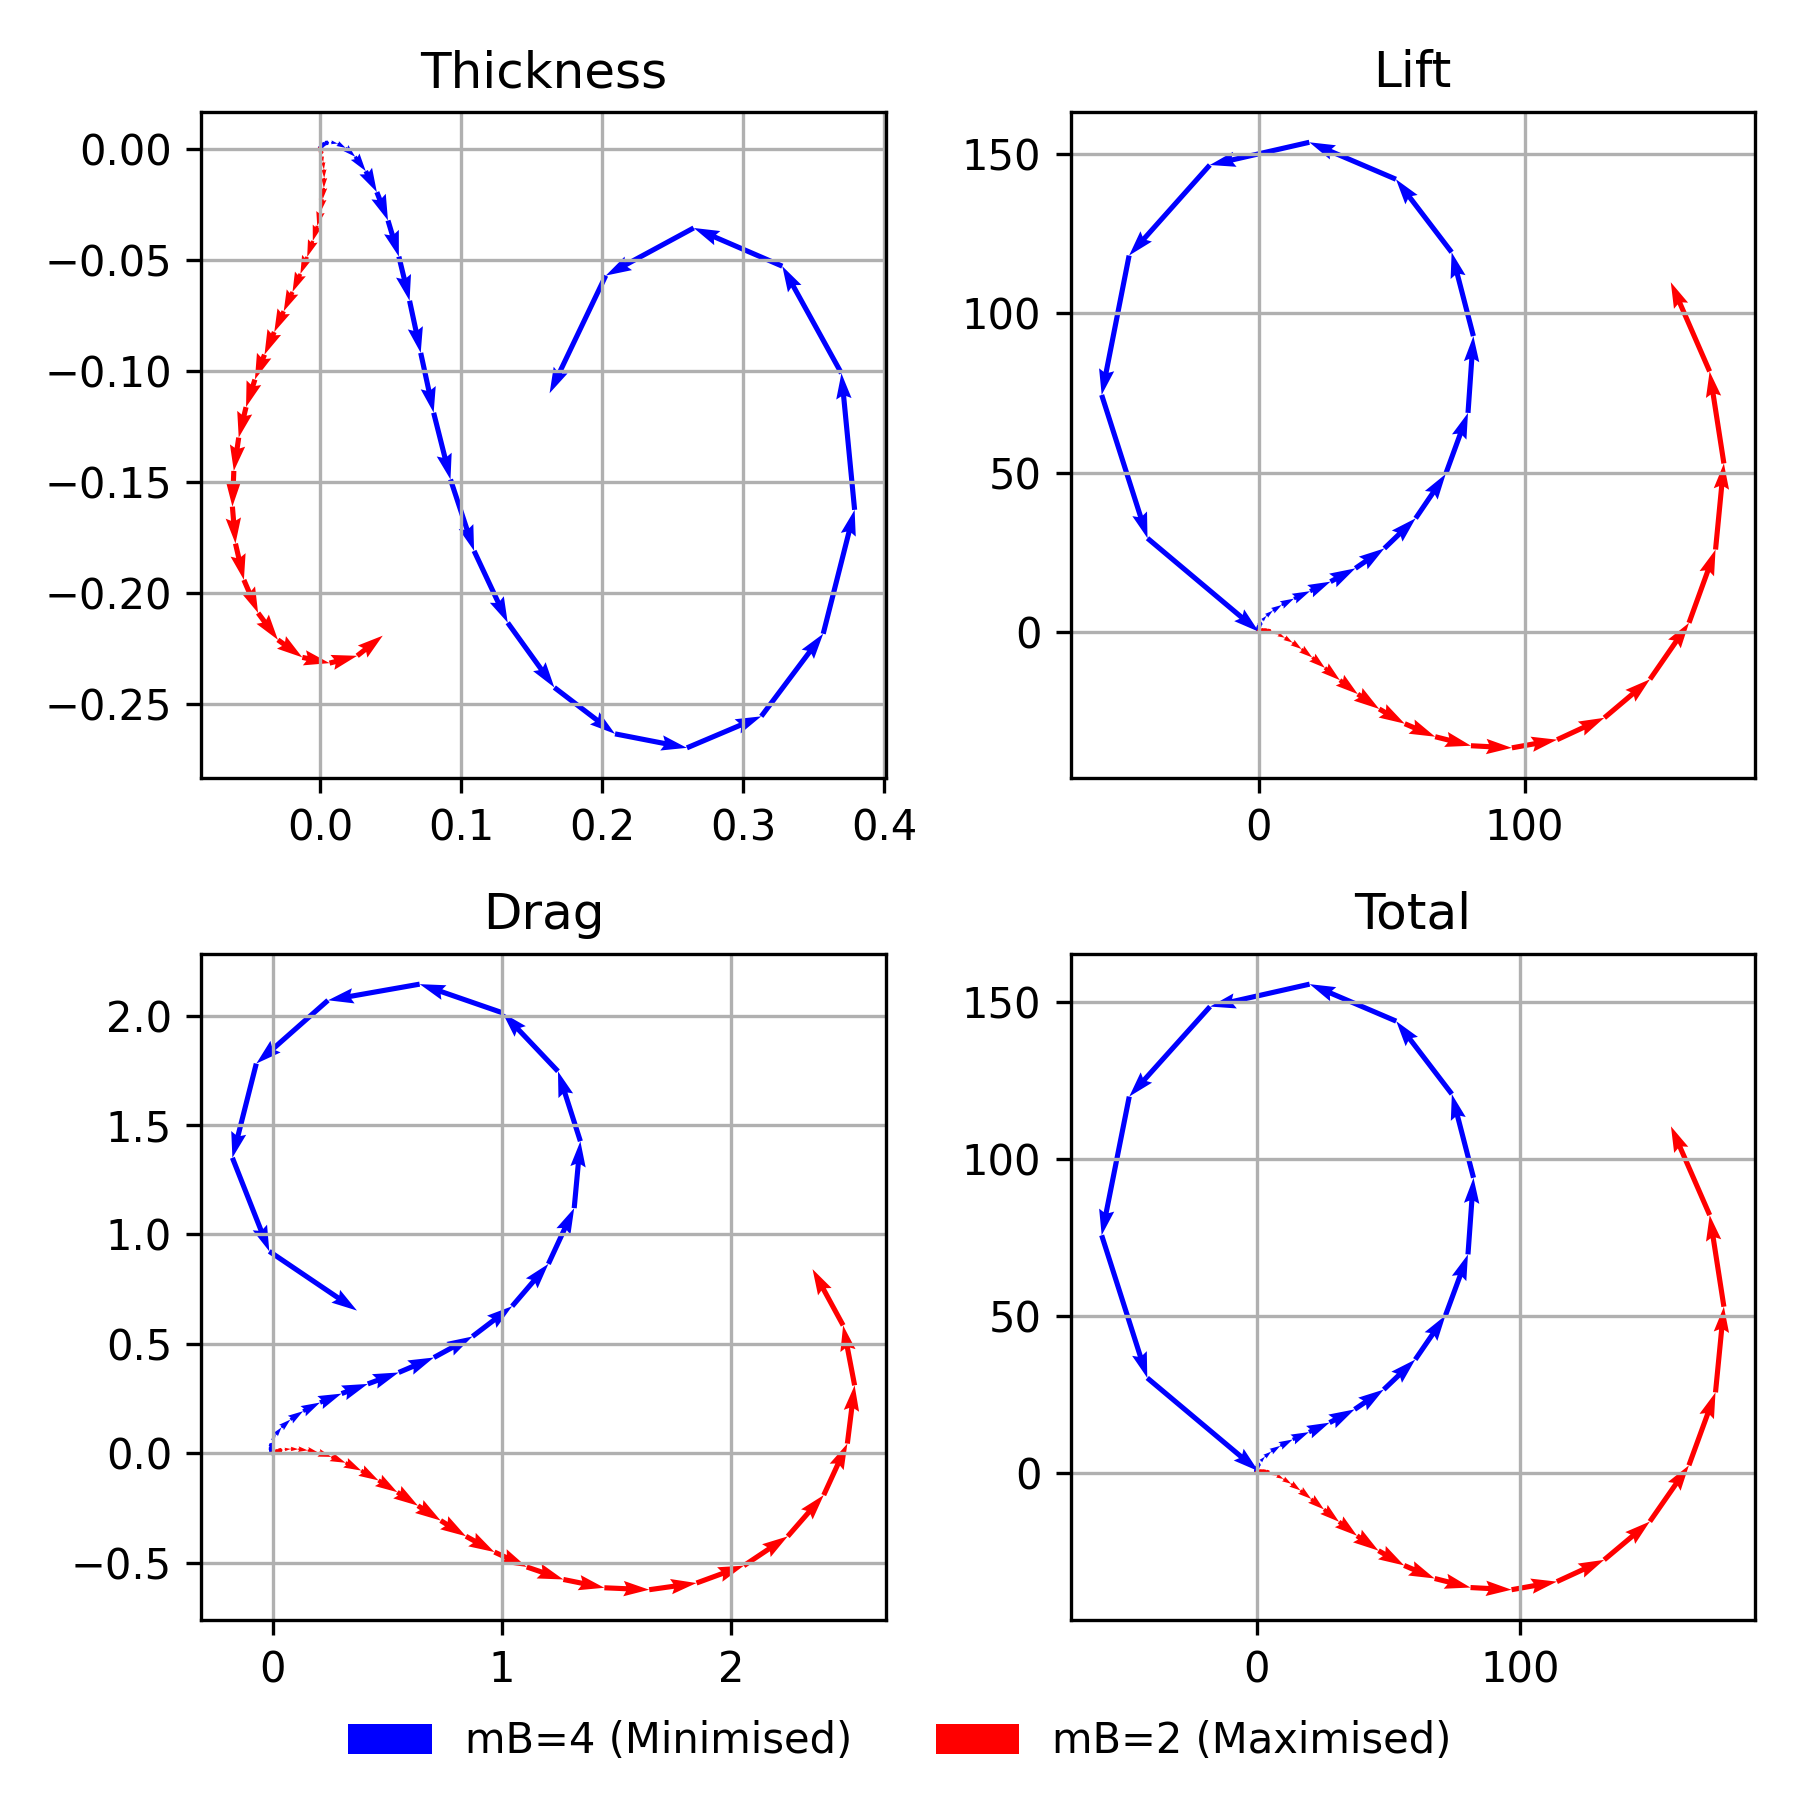
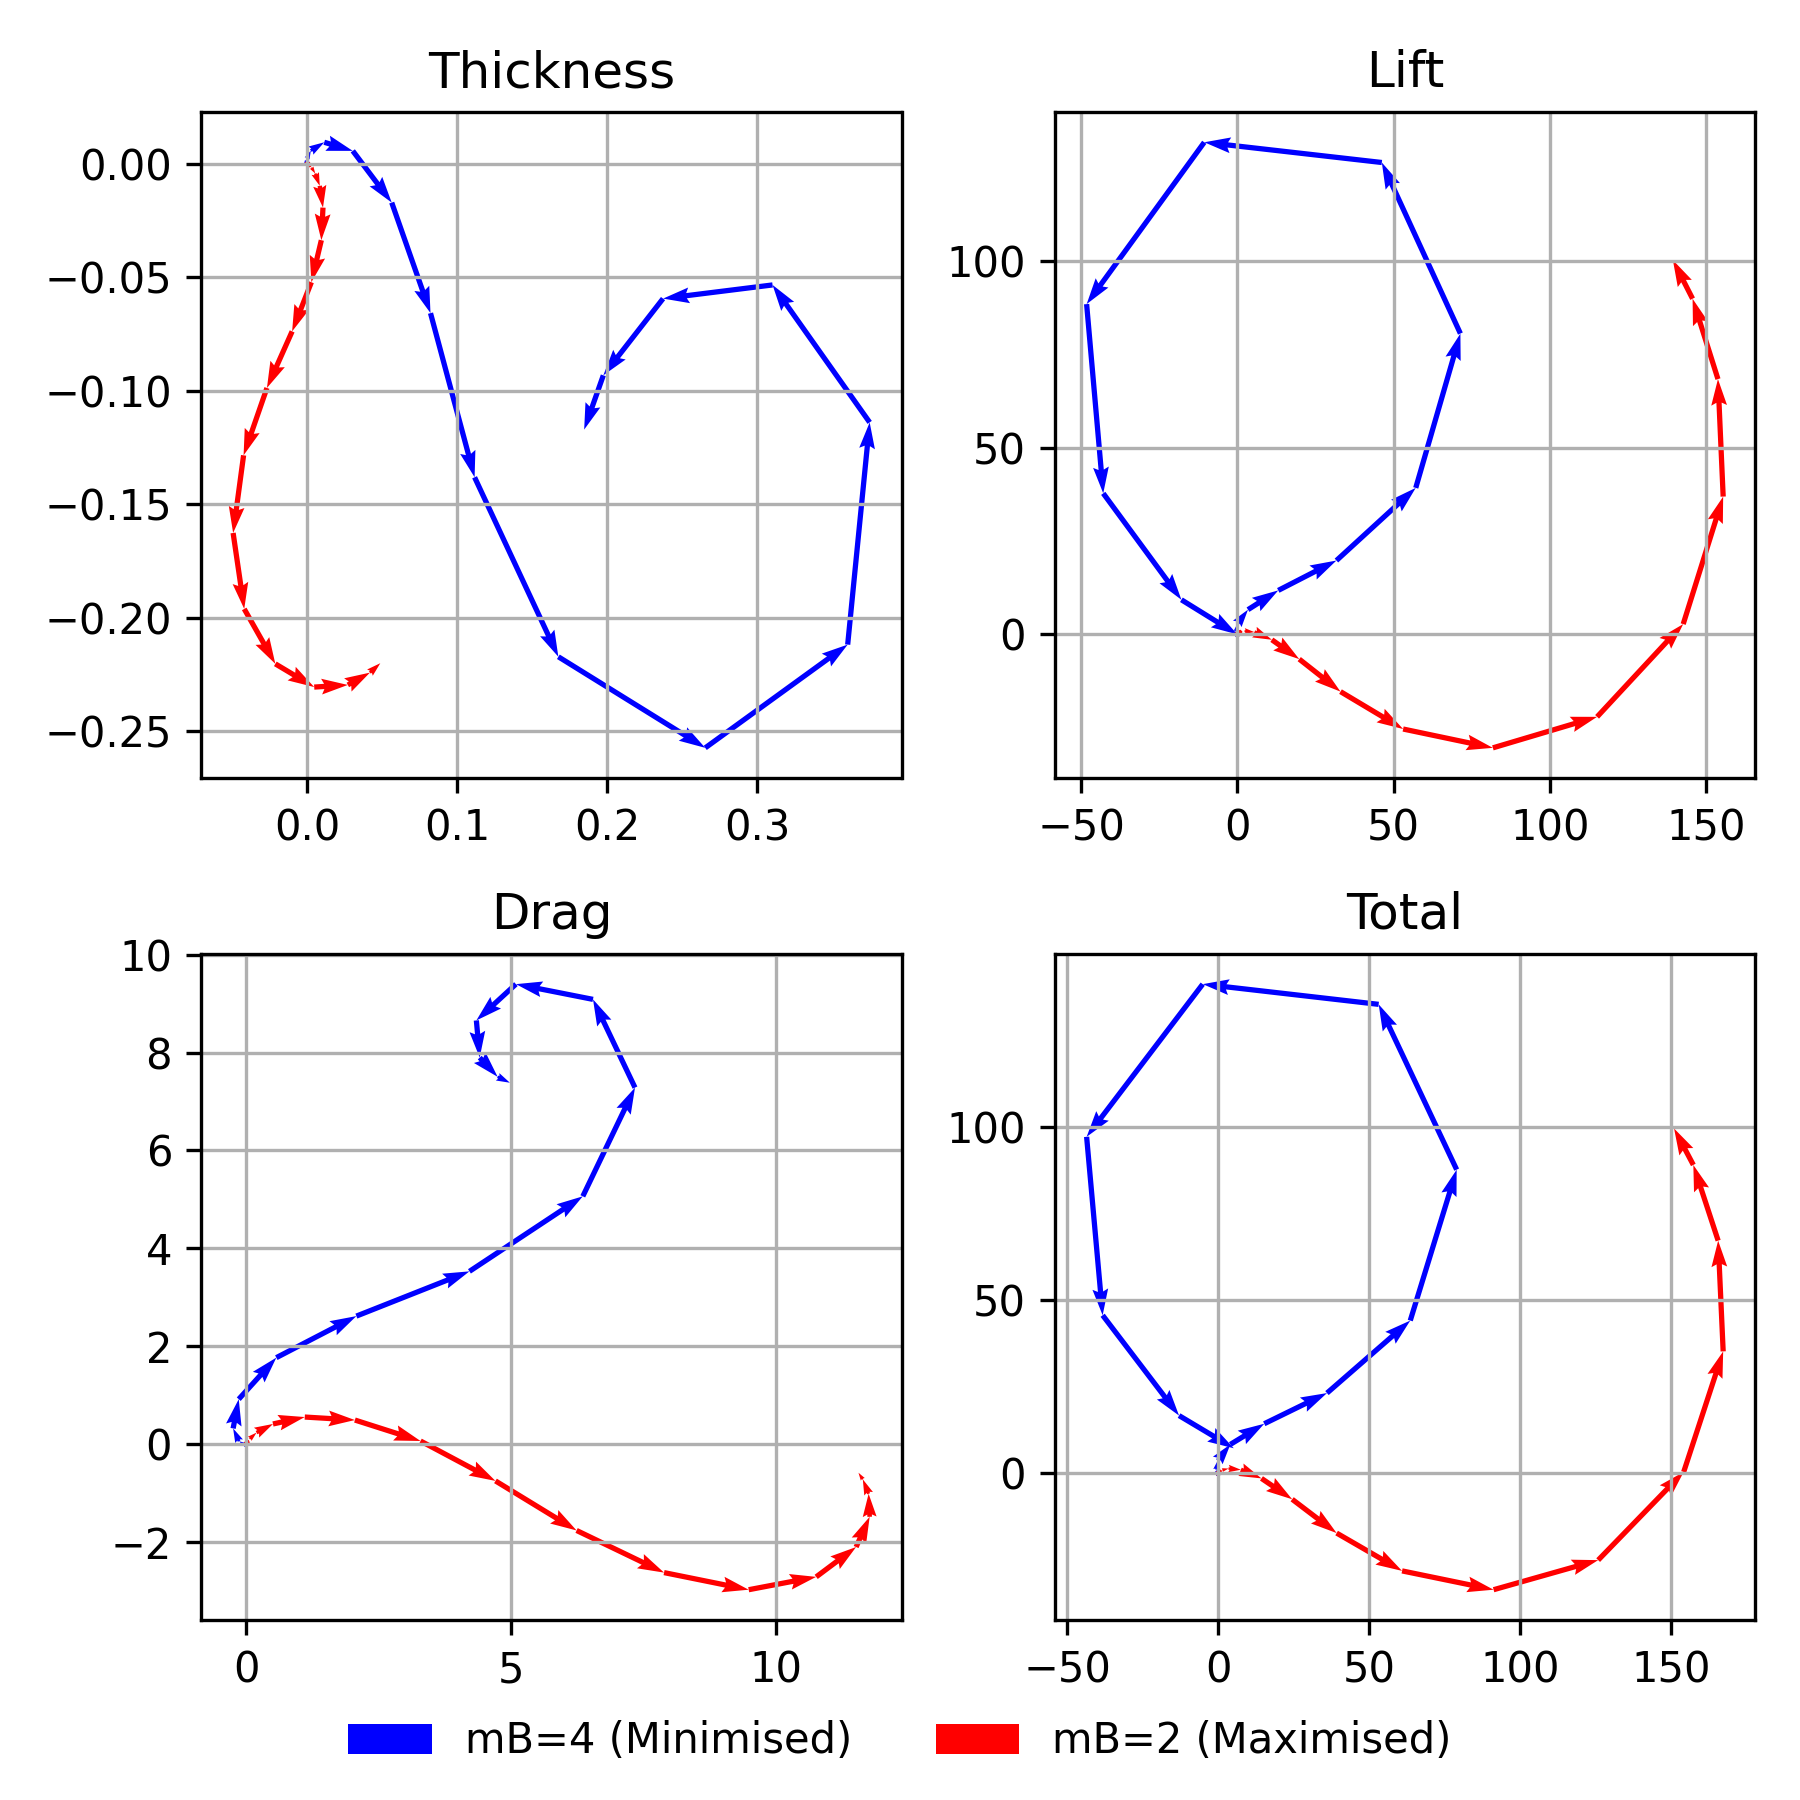
tomorrow will work on 4A4 and a tikz flowchart

diff --git a/deliverables/tms/tms.tex b/deliverables/tms/tms.tex
@@ -57,7 +57,10 @@
 
 \lstset{style=mystyle}
 
-
+\tikzstyle{startstop} = [rectangle, rounded corners, minimum width=3cm, minimum height=1cm,text centered, draw=black, fill=red!30]
+\tikzstyle{process} = [rectangle, minimum width=3cm, minimum height=1cm, text centered, draw=black, fill=orange!30]
+\tikzstyle{decision} = [diamond, minimum width=3cm, minimum height=1cm, text centered, draw=black, fill=green!30]
+\tikzstyle{io} = [trapezium, trapezium left angle=70, trapezium right angle=110, minimum width=3cm, minimum height=1cm, text centered, draw=black, fill=blue!30]
 
 \begin{document}
 \immediate\write18{py mergebib.py}
@@ -118,8 +121,7 @@ Blade Element Momentum theory is a common method to predict the aerodynamic perf
 In BEM, the blade is divided into annular sections and the induced velocity at each section is assumed to be due to only the forces on that section.
 Then actuator disk theory is combined with momentum theory to create a system of non-linear equations which can be solved iteratively.
 
-
-\begin{figure}
+\begin{figure}[H]
     \centering
     \begin{tikzpicture}
             % Some profiles look better when using plot[smooth]
@@ -128,7 +130,7 @@ Then actuator disk theory is combined with momentum theory to create a system of
                 plot file{../../app/foils/NACA2412.surf} -- cycle;
         \end{scope}
         % hoirzontal line
-        \draw[thick, dashed] (-4,0) -- (4, 0) node[above] {Rotation Plane};
+        \draw[thick, dashed] (-4,0) -- (4, 0) node[below] {Rotation Plane};
         % velocity vector labelled at midline
         \draw[->] (0,-1) -- (0,0) node[midway,right] {$V(1-a)$};
         \draw[->] (-2,-1) -- (0,-1) node[midway,below] {$\Omega r(1+a')$};
@@ -139,14 +141,13 @@ Then actuator disk theory is combined with momentum theory to create a system of
         \draw[->] (-2,0) arc (0:15:-2) node[midway, left] {$\theta$};
         \draw[->] (-3,0) arc (0:26.565:-3) node[midway, left] {$\phi$};
         \draw[->] (-1.7888,-0.8944) arc (26.565:15:-2) node[midway, left] {$\alpha$};
+        % force coefficients
+        \draw[->] (0.75, 0.194) -- (0.75,2) node[midway, right] {$c_n$};
+        \draw[->] (0.75, 0.194) -- (3, 0.194) node[above] {$c_t$};
     \end{tikzpicture}
     \caption{Local section of propeller blade for BEM. Anticlockwise angles are positive.}
     \label{fig:bem_section}
 \end{figure}
-
-
-S. Andrew Ning developed a fast method with guaranteed convergence \cite{Ning_BEM}.
-
 
 BEM is implemented with Prantl's tip correction factor.
 This is based on a prescribed wake model
@@ -162,6 +163,7 @@ Theory developed by Hanson predicts the far field harmonic noise from propellers
 \end{equation}
 
 The noise harmonic is decomposed into thickness and loading as per the Lighthill analogy.
+
 \begin{equation}
     P_{mB} = P_{Vm} + P_{Dm} + P_{Lm}
 \end{equation}
@@ -180,21 +182,40 @@ The noise harmonic is decomposed into thickness and loading as per the Lighthill
         \end{bmatrix}dz
     \end{aligned}
 \end{equation}
-
-With 
+Where $\Psi$ is the chordwise spatial fourier transform of the respective sectional thickness, drag and lift distributions.
+The distributions are normalised such that $\Psi(0) = 1$.
+\begin{equation}
+    \Psi_V(k_x) = \int_{-1/2}^{1/2} H(X) \exp(jk_x X) dX
+\end{equation}
+With wavenumbers and sectional phase lags given by
 \begin{equation}
     k_x = \frac{mB b}{r_0}, \quad
     k_y = \frac{mB\Omega b}{z c_0} \cos \theta, \quad
     \phi_0 = k_y \frac{FA}{b}, \quad
     \phi_s = k_x \frac{MCA}{b}, \quad
 \end{equation}
-Where $\Psi$ is a normalised chordwise integral of sectional thickness, drag and lift distributions that satisfies $\Psi(0) = 1$.
-\begin{equation}
-    \Psi_V(k_x) = \int_{-1/2}^{1/2} H(X) \exp(jk_x X) dX
-\end{equation}
 
-Hansons
 
+The spanwise integral is performed over a number of discrete airfoil sections.
+
+Directivity
+
+$\Psi(k_x)$ accounts for \textit{non-compactness} of distributed sources in the chordwise direction.
+The far field noise from non-compact sources is a result of interference and phase lag. 
+This explains its dependence on wavenumber and normalised source strengths.
+
+Hanson also showed that strong peaks in the chordwise lift distribution should be avoided
+as these lead to compact, high amplitude noise sources that are difficult to cancel out.
+A near uniform loading is shown to have destructive interference at some wavenumbers \cite{hanson_influence}.
+However, strong suction peaks are a standard feature of high lift to drag ratio airfoils \cite{?}
+and so are difficult to avoid without compromising significantly on aerodynamic performance.
+
+
+For a given harmonic, the spanwise integral can be written as a sum of complex vectors representing the far field noise from each section.
+The destructive interference of each component can then easily be visualised in head-to-tail vector addition seen below.
+
+The problem for minimising noise of a given harmonic is then to sweep the blade in such a way that minimises the final magnitude of the vector summation.
+The magnitudes of the vectors will be assumed fixed ie constant thickness and loading.
 
 \section{Progress}
 
@@ -234,7 +255,16 @@ Hansons
 \end{figure}
 
 \subsection{Software design tool}
-A software design tool implements the theory with to design propellers
+A software design tool implementing the theoretical framework has been developed.
+This allows rapid design
+
+The software, given parameters and spanwise distributions, calculates aerodynamic performance and harmonic noise of the propeller.
+Its also required to load an airfoil coordinate file in the standard format found on the UIUC database \cite{UIUC_database}.
+
+In practice the BEM equations can be difficult to solve \cite{?}.
+S. Ning developed a root finding method with guaranteed convergence \cite{Ning_BEM}.
+
+
 
 \begin{figure}[H]
     \centering
